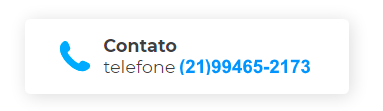
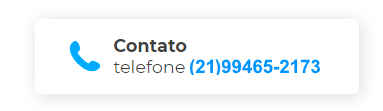
fix media querie

Changed region(s): [[0.1436, 0.3514, 0.8329, 0.6757], [0.2585, 0.3514, 0.4883, 0.4865]]

diff --git a/aulas/escolinhaparticular/styleparticular.css b/aulas/escolinhaparticular/styleparticular.css
@@ -461,6 +461,13 @@ footer {
     width: 300px;
   }
 }
+
+@media (max-width:859px){
+  .childzap a img {
+    transform: translateX(300px);
+  }
+}
+
 @media (max-width:530px){
 .containeraulas{
   display: flex;
@@ -477,7 +484,7 @@ footer {
   }
   .containerzap .childzap a img{
     width: 350px;
-    transform: translate(-20px);
+    transform: translate(-10px);
  
   }
   .background{
@@ -519,7 +526,7 @@ footer {
     }
     .containerzap .childzap a img{
       width: 270px;
-      transform: translate(5px);
+      transform: translate(-4px);
     }
   }
   @media (max-width:310px){
@@ -536,7 +543,7 @@ footer {
     }
     .containerzap .childzap a img{
       width: 300px;
-   
+
     }
   }
 

diff --git a/aulas/escolinha/stylefutebol.css b/aulas/escolinha/stylefutebol.css
@@ -440,8 +440,22 @@ footer {
   .carousel{
     width: 300px;
   }
+  .containerzap .childzap a img{
+    transform: translate(-30px);
+  
+  }
 }
-@media (max-width:620px){
+@media (max-width:832px){
+  .ret{
+    width: 400px;
+  }
+  .containerzap .childzap a img{
+    width: 350px;
+    transform: translate(-20px);
+  
+  }
+}
+@media (max-width:638px){
 .ret{
   width: 400px;
 }
